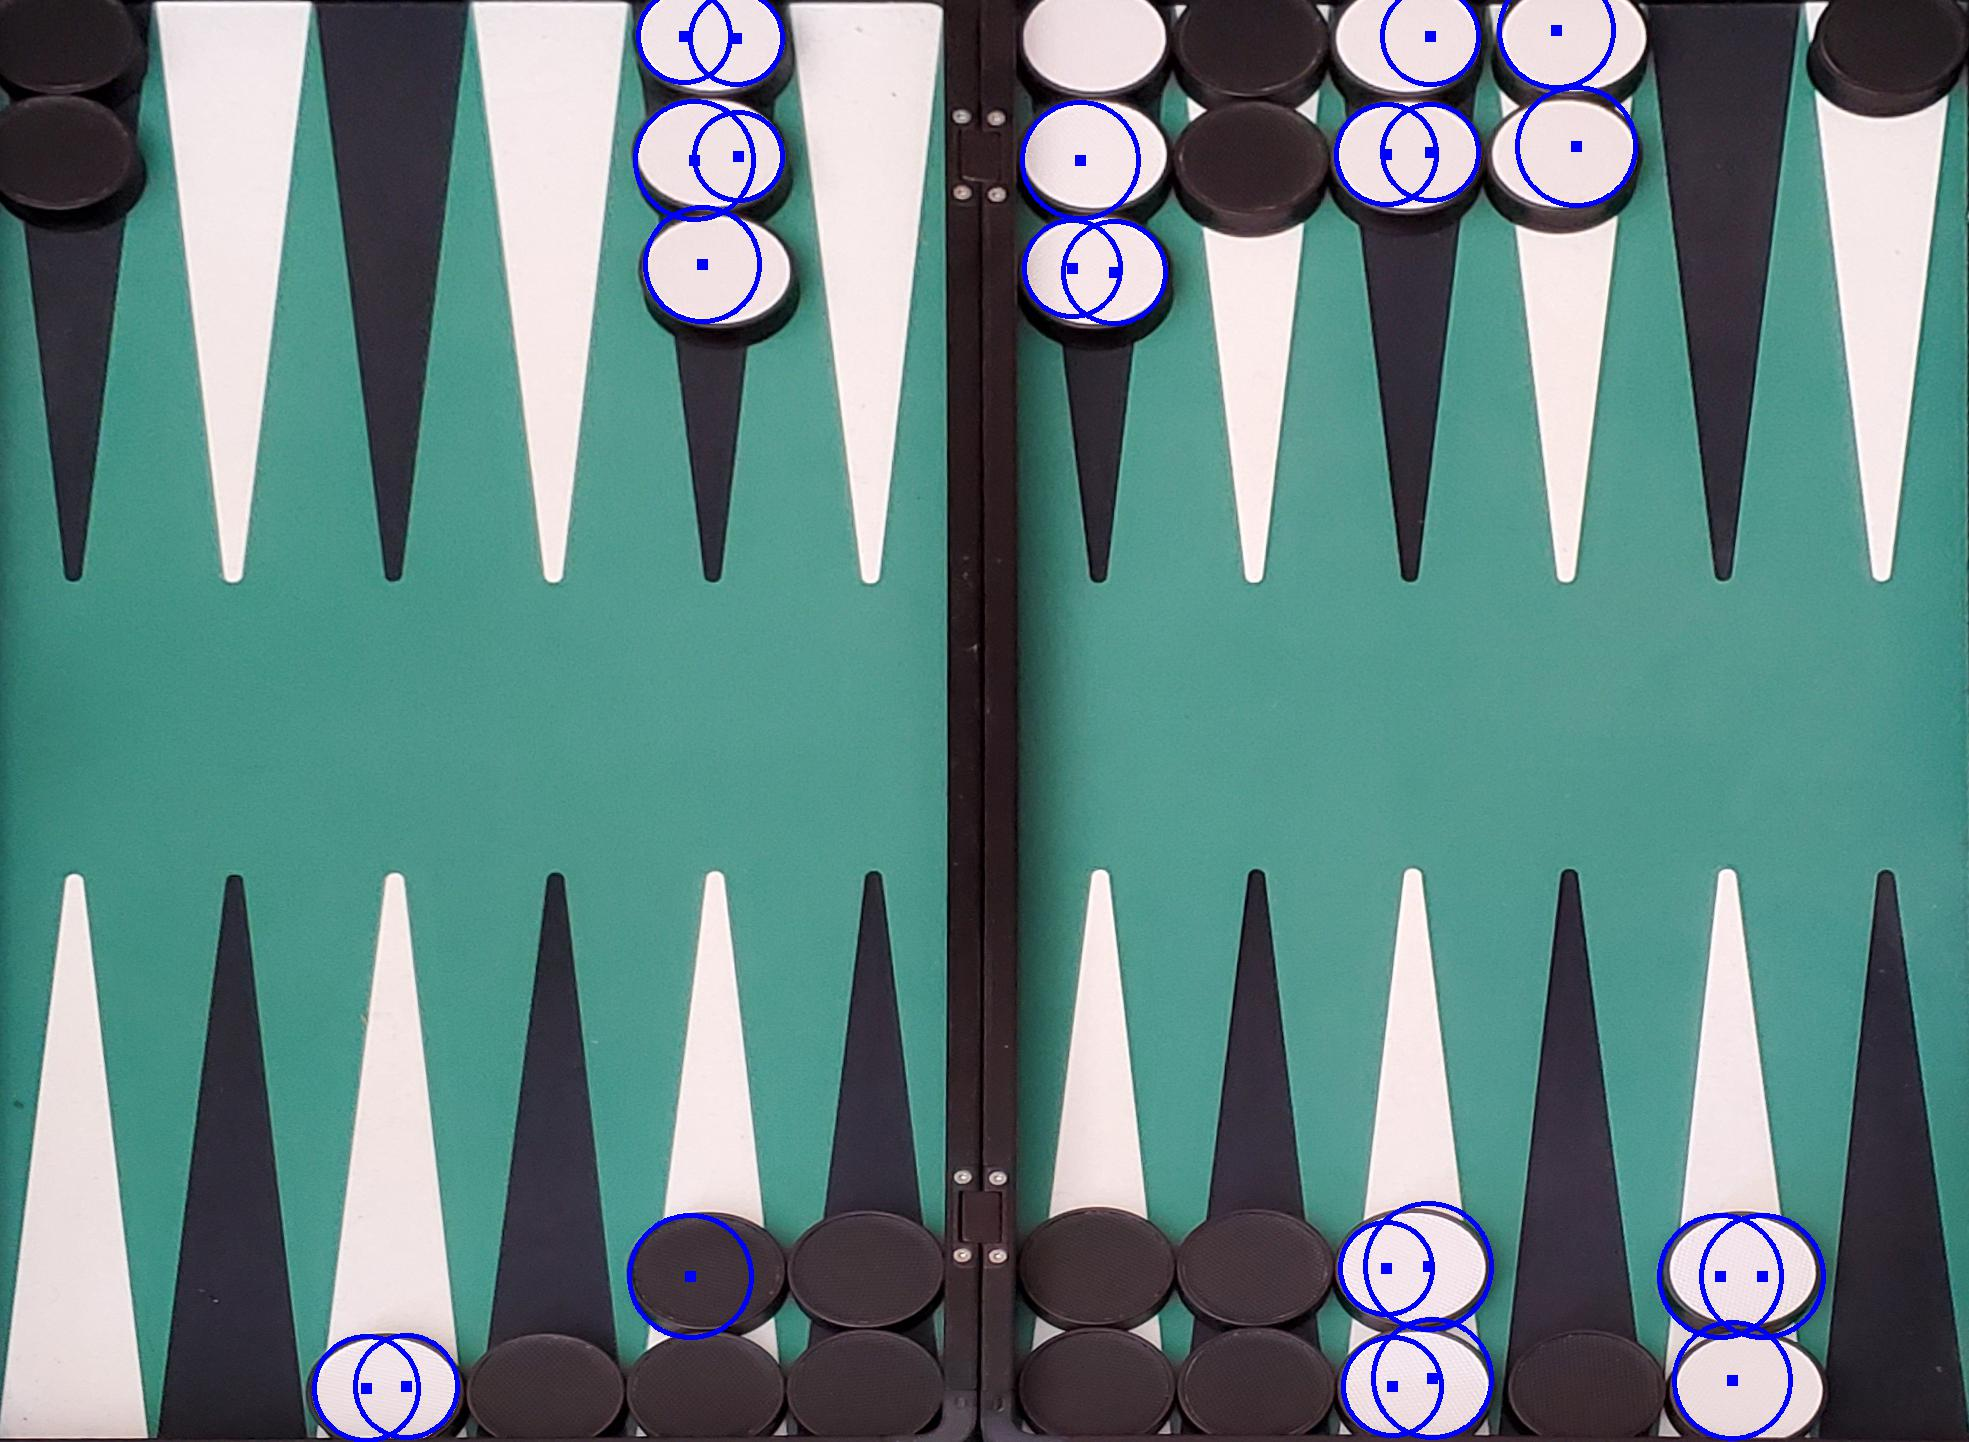
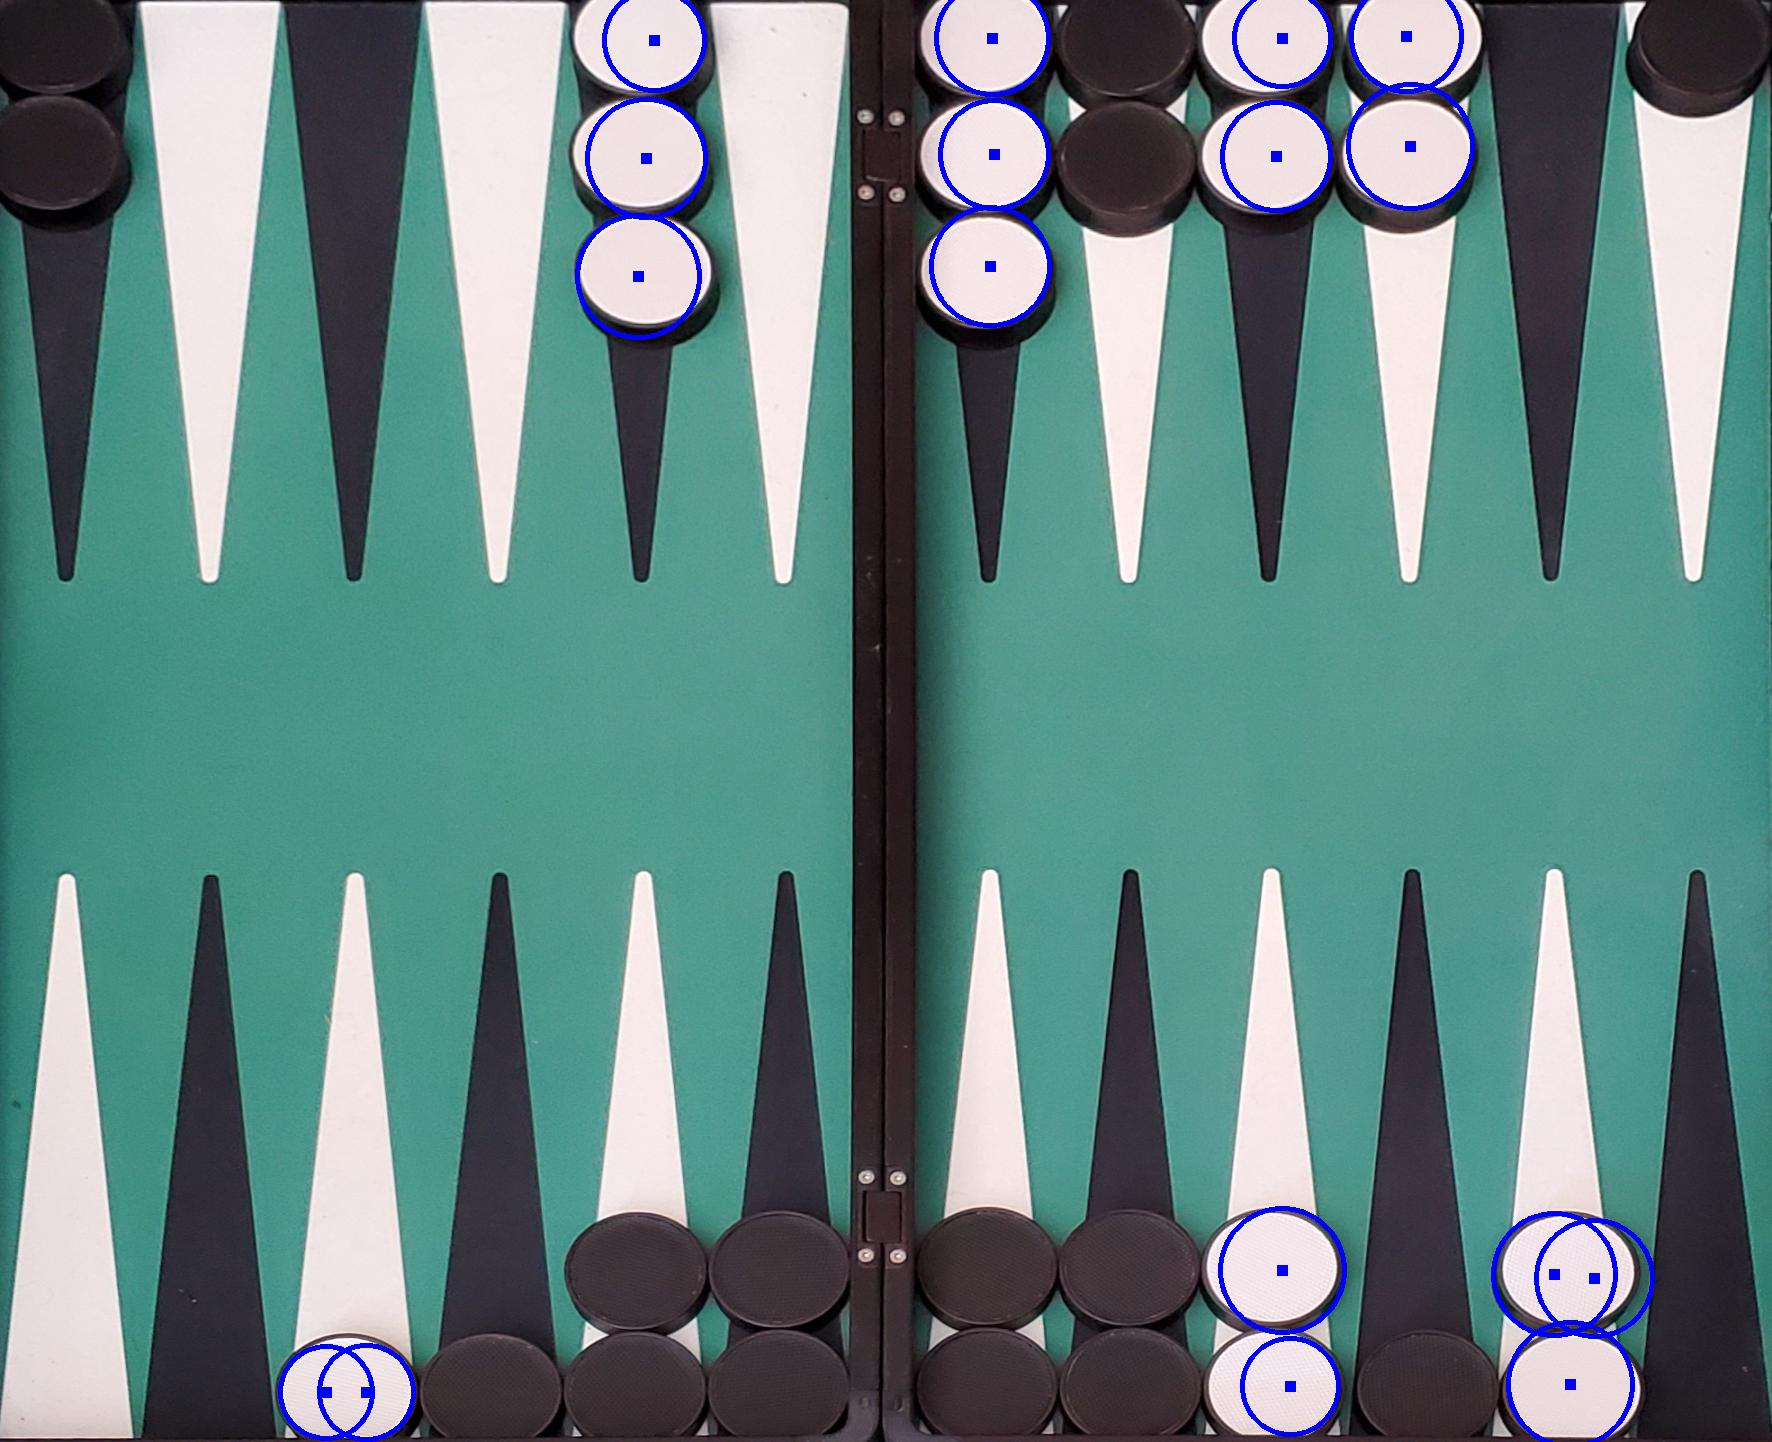
added aspect ratios which improves performance

diff --git a/warp_and_find_checker.py b/warp_and_find_checker.py
@@ -25,6 +25,8 @@ output_path = args.output_path
 display = True # do you want to display one image?
 which_image = 1 # which image to display
 
+aspect_ratios = [0.8, 1.0, 0.8, 0.9, 1.3]
+
 
 # read in input data
 files = os.listdir(input_path)
@@ -88,7 +90,8 @@ if display:
 # account for distortion of image
 resizeds = []
 for i, img in enumerate(grays):
-    scale_percent_x = 100 # !!! need to calculate this somehow
+    # scale_percent_x = 100 # !!! need to calculate this somehow
+    scale_percent_x = aspect_ratios[i] * 100
     # scale_percent_x = board_widths[i] * 100 #- 20 # percent of original size
     # print(scale_percent_x)
     width = int(img.shape[1] * scale_percent_x / 100)
@@ -117,7 +120,13 @@ for i, gray in enumerate(resizeds):
     #     gray = cv2.filter2D(gray, -1, sharpening_kernel)
     
     # output = gray.copy()
-    output = no_persps[i].copy()
+    # output = no_persps[i].copy()
+    scale_percent_x = aspect_ratios[i] * 100
+    img = no_persps[i]
+    width = int(img.shape[1] * scale_percent_x / 100)
+    height = int(img.shape[0] * 100 / 100)
+    dim = (width, height)
+    output = cv2.resize(img, dim, interpolation = cv2.INTER_AREA).copy()
     # circles = cv2.HoughCircles(gray, cv2.HOUGH_GRADIENT, 1.2, 100, param2=60, minRadius=20, maxRadius=90)
     # circles = cv2.HoughCircles(gray, cv2.HOUGH_GRADIENT, 1, 80, param1=50, param2=60, minRadius=20, maxRadius=90)
     circles = cv2.HoughCircles(gray, cv2.HOUGH_GRADIENT, 1, 80, param1=50, param2=20, minRadius=20, maxRadius=60)
